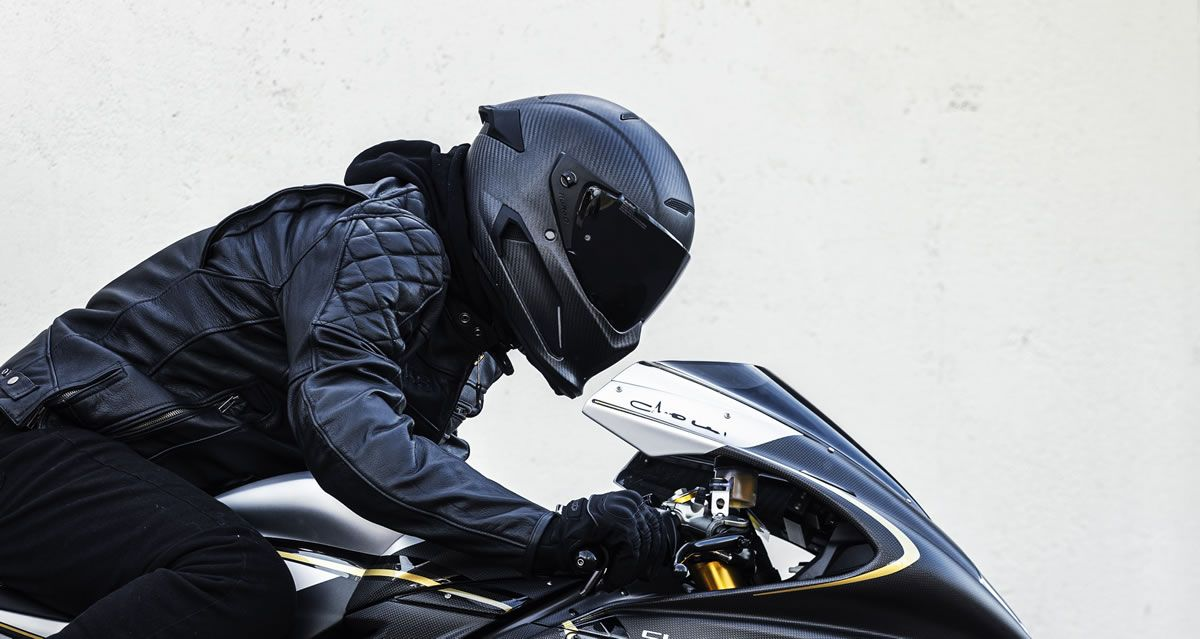
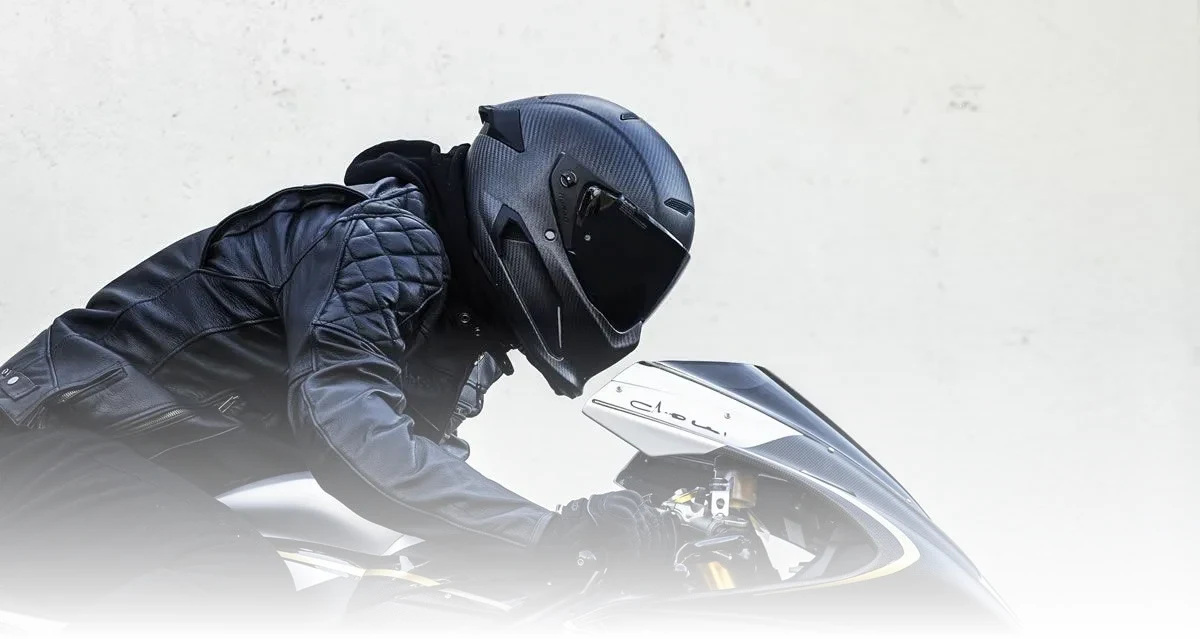
fix: auth image input

Changed region(s): [[0.0, 0.5352, 1.0, 1.0]]

diff --git a/mobile-app/app/(auth)/sign-up.tsx b/mobile-app/app/(auth)/sign-up.tsx
@@ -19,10 +19,7 @@ const SignUp = () => {
     <ScrollView style={styles.container}>
       <View style={styles.content}>
         <View style={styles.imageContent}>
-          <Image
-            style={styles.imageWithOverlay}
-            source={require("@/assets/images/signup-car.png")}
-          />
+          <Image style={styles.imageWithOverlay} source={images.riderh} />
           <Text style={styles.text}>Create You Account</Text>
         </View>
         <View style={styles.Formcontainer}>

diff --git a/mobile-app/app/(auth)/sign-in.tsx b/mobile-app/app/(auth)/sign-in.tsx
@@ -25,10 +25,7 @@ const SignIn = () => {
     <ScrollView style={styles.container}>
       <View style={styles.content}>
         <View style={styles.imageContent}>
-          <Image
-            style={styles.image}
-            source={require("@/assets/images/signup-car.png")}
-          />
+          <Image style={styles.image} source={images.riderh} />
           <Text style={styles.text}>Welcome 👋 </Text>
         </View>
         <View style={styles.Formcontainer}>

diff --git a/mobile-app/app/(root)/(tabs)/profile.tsx b/mobile-app/app/(root)/(tabs)/profile.tsx
@@ -55,7 +55,7 @@ export default Profile;
 const styles = StyleSheet.create({
   container: {
     flex: 1,
-    backgroundColor: "white",
+    backgroundColor: "#F5F5F5",
   },
   scrollView: {
     paddingHorizontal: 20,
